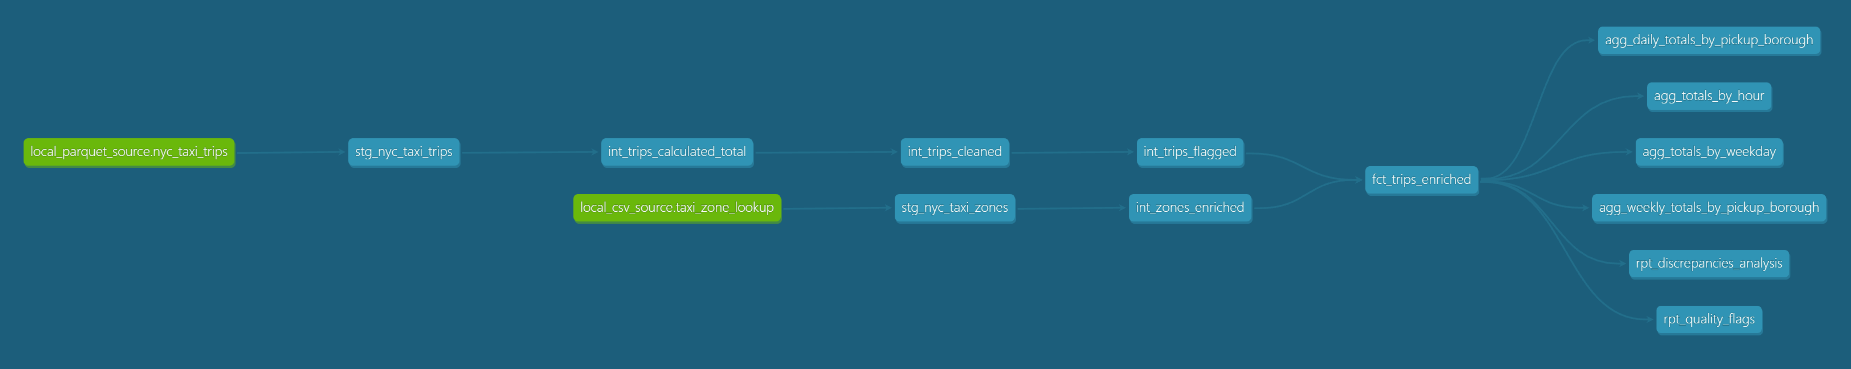
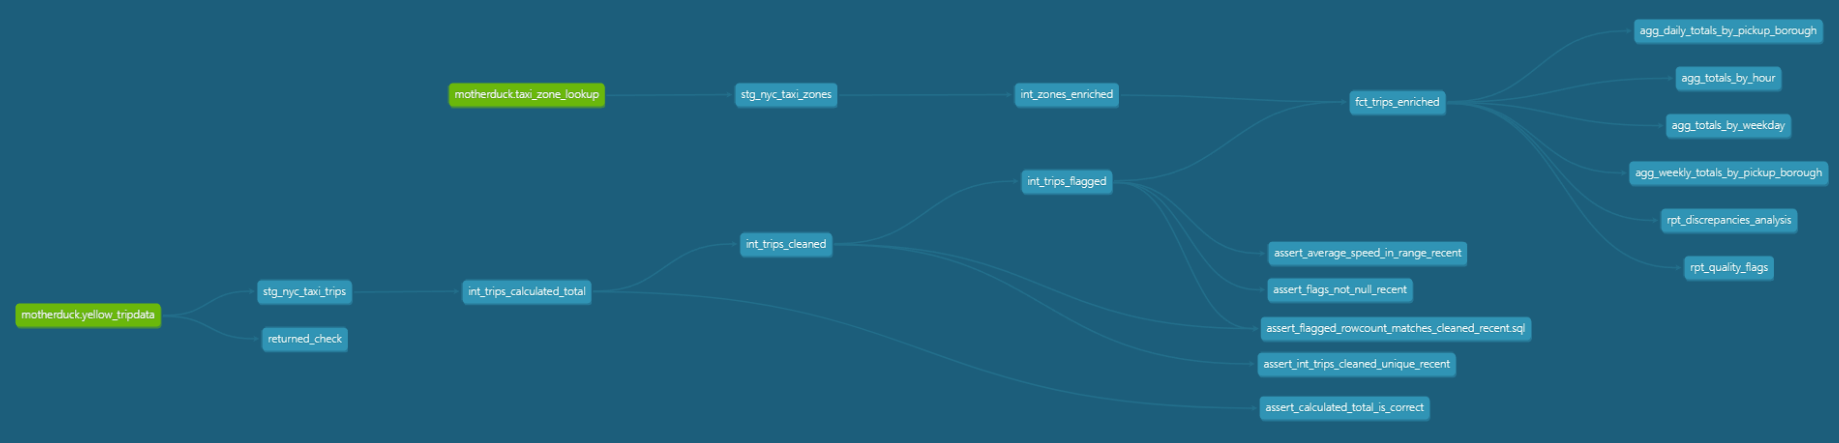
readme updated

diff --git a/README.md b/README.md
@@ -5,15 +5,15 @@
 [![DuckDB](https://img.shields.io/badge/duckdb-1.4.4-%23FFF000.svg)](https://duckdb.org/)
 [![License](https://img.shields.io/badge/License-MIT-green.svg)](LICENSE)
 
-A dbt portfolio project built on NYC Taxi & Limousine Commission (TLC) Yellow Taxi trip data. The pipeline transforms raw Parquet files into analytics-ready mart tables designed for direct consumption in Power BI or any other BI tool.
+A dbt portfolio project built on NYC Taxi & Limousine Commission (TLC) Yellow Taxi trip data. The pipeline transforms raw monthly Parquet files into analytics-ready mart tables, with incremental loading designed for recurring monthly uploads.
 
-**Stack:** dbt 1.10 · DuckDB · local Parquet + CSV sources
+**Stack:** dbt 1.10 · dbt-duckdb · MotherDuck (cloud) · Power BI
 
 ---
 
 ## Business context
 
-The project simulates an analytics engineering task for a taxi fleet operations team. Raw trip data from vendor systems arrives as monthly Parquet dumps. The goal is to deliver clean, documented, tested models that answer the following business questions without any further transformation in the BI layer:
+The project simulates an analytics engineering task for a taxi fleet operations team. Raw trip data from vendor systems arrives as monthly Parquet dumps loaded into a MotherDuck raw table. The pipeline delivers clean, documented, tested models that answer the following business questions without any further transformation in the BI layer:
 
 - What is daily and weekly revenue by pickup borough?
 - Which hours and days of the week generate the most revenue?
@@ -24,10 +24,10 @@ The project simulates an analytics engineering task for a taxi fleet operations 
 
 ## Data sources
 
-| Source                      | Format             | Description                                                           |
-| --------------------------- | ------------------ | --------------------------------------------------------------------- |
-| `yellow_tripdata_*.parquet` | Parquet (wildcard) | Raw trip fact records published monthly by NYC TLC                    |
-| `taxi_zone_lookup.csv`      | CSV                | Reference table mapping LocationID to borough, zone, and service zone |
+| Source | Format | Description |
+| --- | --- | --- |
+| `yellow_tripdata` | Parquet (monthly upload) | Raw trip fact records published monthly by NYC TLC, loaded into MotherDuck raw schema |
+| `taxi_zone_lookup` | CSV | Reference table mapping LocationID to borough, zone, and service zone |
 
 Raw data: [NYC TLC Trip Record Data](https://www.nyc.gov/site/tlc/about/tlc-trip-record-data.page)
 
@@ -39,15 +39,15 @@ Raw data: [NYC TLC Trip Record Data](https://www.nyc.gov/site/tlc/about/tlc-trip
 models/
   staging/
     trips/
-      stg_nyc_taxi_trips.sql                    -- rename, cast, no logic
-      int_trips_calculated_total.sql            -- recalculate total from components, derive discrepancy
-      int_trips_cleaned.sql                     -- remove physical outliers (speed, distance, time)
-      int_trips_flagged.sql                     -- flag suspicious trips, charge reversals, add duration/speed
+      stg_nyc_taxi_trips.sql               -- rename, cast, generate surrogate key
+      int_trips_calculated_total.sql       -- recalculate total from components, derive discrepancy
+      int_trips_cleaned.sql                -- remove physical outliers (speed, distance, time), deduplicate [incremental]
+      int_trips_flagged.sql                -- flag suspicious trips and charge reversals, add duration/speed
     zones/
-      stg_nyc_taxi_zones.sql                    -- rename, cast
-      int_zones_enriched.sql                    -- handle LocationID 264/265, add zone_status flag
+      stg_nyc_taxi_zones.sql               -- rename, cast
+      int_zones_enriched.sql               -- handle LocationID 264/265, add zone_status flag
   marts/
-    fct_trips_enriched.sql                      -- join trips with zones, main fact table
+    fct_trips_enriched.sql                 -- join trips with zones, main fact table [incremental]
     agg_daily_totals_by_pickup_borough.sql
     agg_weekly_totals_by_pickup_borough.sql
     agg_totals_by_hour.sql
@@ -57,11 +57,15 @@ models/
 
 macros/
   tests/
-    not_negative.sql                  -- custom test: rejects negative values
-    not_before_date.sql               -- custom test: rejects timestamps before 1970-01-01
+    not_negative.sql                       -- custom test: rejects negative values
+    not_before_date.sql                    -- custom test: rejects timestamps before 1970-01-01
 
 tests/
-  calculated_total_is_correct.sql     -- singular test: validates total recalculation logic
+  assert_calculated_total_is_correct.sql         -- validates total recalculation formula (last 1 day)
+  assert_int_trips_cleaned_unique_recent.sql      -- unique trip_id in last 35 days
+  assert_flags_not_null_recent.sql               -- is_suspicious and is_returned not null in last 35 days
+  assert_average_speed_in_range_recent.sql       -- average_speed within 0-100 mph in last 35 days
+  assert_flagged_rowcount_matches_cleaned_recent -- row count parity between cleaned and flagged (last 35 days)
 ```
 
 ## Lineage
@@ -76,27 +80,29 @@ tests/
 
 **Intermediate layer is split by responsibility.** Each `int_` model has one job: `int_trips_calculated_total` recalculates totals, `int_trips_cleaned` removes physical outliers, `int_trips_flagged` adds quality flags. Splitting them keeps the lineage readable and makes it possible to test each transformation step independently.
 
+**Two incremental models with merge strategy.** `int_trips_cleaned` and `fct_trips_enriched` are materialized as incremental tables with `unique_key = 'trip_id'` and `incremental_strategy = 'merge'`. On each run, only records from the last day relative to the current table max are processed through the intermediate view chain, keeping runtime manageable on large datasets.
+
+**Singular tests are scoped to recent data.** Generic tests with `config.where` using `{{ this }}` do not resolve correctly in the dbt-duckdb adapter. All windowed tests are implemented as singular tests in `tests/` using `{{ ref() }}`, scoped to the last 35 days to keep test runtime proportional to the incremental window.
+
 **Zone edge cases are handled in `int_zones_enriched`, not in the fact model.** LocationIDs 264 and 265 have special meaning in the TLC data dictionary (Unknown and Outside of NYC). The hardcoded mapping lives in one place; `fct_trips_enriched` does a clean join with no knowledge of those IDs.
 
-**Suspicious trips and charge reversals are flagged, not removed.** The columns `is_suspisious` and `is_returned` are boolean flags. The decision on whether to filter them sits with the business user in PBI, not in the pipeline. Both open decisions are documented inline in the YAML.
+**Suspicious trips and charge reversals are flagged, not removed.** `is_suspicious` and `is_returned` are boolean flags. The decision on whether to filter them sits with the business user in Power BI, not in the pipeline. Both open decisions are documented inline in the YAML.
 
 **`payment_discrepancy` is an explicit column, not a filter.** The difference between `total_amount` (vendor-reported) and `calculated_total_amount` (sum of components) is surfaced for every trip and aggregated in `rpt_discrepancies_analysis`. This makes vendor-specific logging defects visible rather than silently absorbed.
 
 ---
 
-## Mart tables for Power BI
+## Mart tables
 
-All mart tables are materialized as `table`. They are ready to load directly into Power BI with no additional transformation needed.
-
-| Model                                 | Grain                             | Primary use                             |
-| ------------------------------------- | --------------------------------- | --------------------------------------- |
-| `fct_trips_enriched`                  | One row per trip                  | Base fact table; slice by any dimension |
-| `agg_daily_totals_by_pickup_borough`  | Date x Borough                    | Daily revenue trend by area             |
-| `agg_weekly_totals_by_pickup_borough` | ISO Year-Week x Borough           | Weekly revenue trend by area            |
-| `agg_totals_by_hour`                  | Hour of day (0-23)                | Peak hour analysis                      |
-| `agg_totals_by_weekday`               | ISO day of week (1=Mon, 7=Sun)    | Weekday vs weekend patterns             |
-| `rpt_discrepancies_analysis`          | Vendor x Rate code x Payment type | Data quality audit                      |
-| `rpt_quality_flags`                   | Vendor x Rate code x Payment type | Data quality audit                      |
+| Model | Grain | Primary use |
+| --- | --- | --- |
+| `fct_trips_enriched` | One row per trip | Base fact table; slice by any dimension |
+| `agg_daily_totals_by_pickup_borough` | Date x Borough | Daily revenue trend by area |
+| `agg_weekly_totals_by_pickup_borough` | ISO Year-Week x Borough | Weekly revenue trend by area |
+| `agg_totals_by_hour` | Hour of day (0-23) | Peak hour analysis |
+| `agg_totals_by_weekday` | ISO day of week (1=Mon, 7=Sun) | Weekday vs weekend patterns |
+| `rpt_discrepancies_analysis` | Vendor x Rate code x Payment type | Fare discrepancy audit |
+| `rpt_quality_flags` | Vendor x Rate code x Payment type | Data quality audit |
 
 ---
 
@@ -110,47 +116,69 @@ All mart tables are materialized as `table`. They are ready to load directly int
 **Packages used:**
 
 - `dbt-labs/codegen` -- schema YAML generation during development
-- `metaplane/dbt_expectations` -- extended column-level expectations (value ranges, column pair comparisons)
+- `metaplane/dbt_expectations` -- extended column-level expectations
 
-**Test coverage includes:**
+**Test coverage:**
 
-- Source not_null and accepted_values on all key columns
+- Source `not_null` and `accepted_values` on all key columns
 - Referential integrity between trip zone IDs and the zone lookup table
-- Row count parity between intermediate models (`equal_rowcount`)
-- Physical bounds on `trip_distance` and `average_speed`
-- Temporal ordering (`meter_off > meter_on`) enforced at model level
-- Singular test validating the `calculated_total_amount` formula
+- Unique `trip_id` on recent data (last 35 days) via singular test
+- Row count parity between `int_trips_cleaned` and `int_trips_flagged` on recent data
+- `is_suspicious` and `is_returned` not null on recent data
+- `average_speed` within physical bounds (0-100 mph) on recent data
+- `calculated_total_amount` formula correctness on last day of data
 
 ---
 
-## Known limitations and open items
+## Monthly data load workflow
 
-**Incremental loading is not yet implemented.** All models currently rebuild in full on every `dbt run`. For production use with multi-month data, `fct_trips_enriched` and the aggregation marts should be converted to `materialized = 'incremental'` with an appropriate `unique_key`. This is the next planned development step.
+New monthly Parquet files are appended to the MotherDuck raw table, then `dbt build` handles the rest:
 
-**`is_returned` flags both records in a charge/reversal pair.** The current implementation marks both the original charge and its reversal as `is_returned = true`. The correct treatment (deduplicate vs. keep both) is a pending business decision. See inline comment in `int_trips_flagged.sql`.
+```python
+import duckdb
+
+con = duckdb.connect('md:')
+con.execute("""
+    INSERT INTO nyc_taxi_trips.raw.yellow_tripdata
+    SELECT * FROM 'path/to/yellow_tripdata_YYYY-MM.parquet'
+""")
+```
+
+```bash
+dbt build
+```
+
+On incremental runs, only records newer than the current table max (minus 1 day overlap) are processed through the transformation chain. A full rebuild from scratch can be forced with:
+
+```bash
+dbt build --full-refresh
+```
 
 ---
 
 ## Setup
 
-**Requirements:** dbt-duckdb, dbt 1.10+
+**Requirements:** Python 3.12+, dbt-duckdb 1.10+
 
 ```bash
-# Install packages
+# Install dbt packages
 dbt deps
 
-# Place source files
-# Parquet:  ./data/yellow_tripdata_*.parquet
-# CSV:      ./data/taxi_zone_lookup.csv
+# Configure MotherDuck connection in profiles.yml
+# Profile name: nyc_taxi_trips
+# Target: dev
+# Type: duckdb
+# Path: md:  (MotherDuck cloud)
 
-# Run
-dbt run
+# Build all models and run all tests
+dbt build
 
-# Test
-dbt test
-
-# Generate docs
+# Generate and serve documentation
 dbt docs generate && dbt docs serve
 ```
 
-Configure `profiles.yml` for the `nyc_taxi_trips` profile pointing to `./dev.duckdb`.
+---
+
+## Known limitations and open items
+
+**`is_returned` flags both records in a charge/reversal pair.** The current implementation marks both the original charge and its reversal as `is_returned = true`. The correct treatment (deduplicate vs. keep both) is a pending business decision. See inline comment in `int_trips_flagged.sql`.
